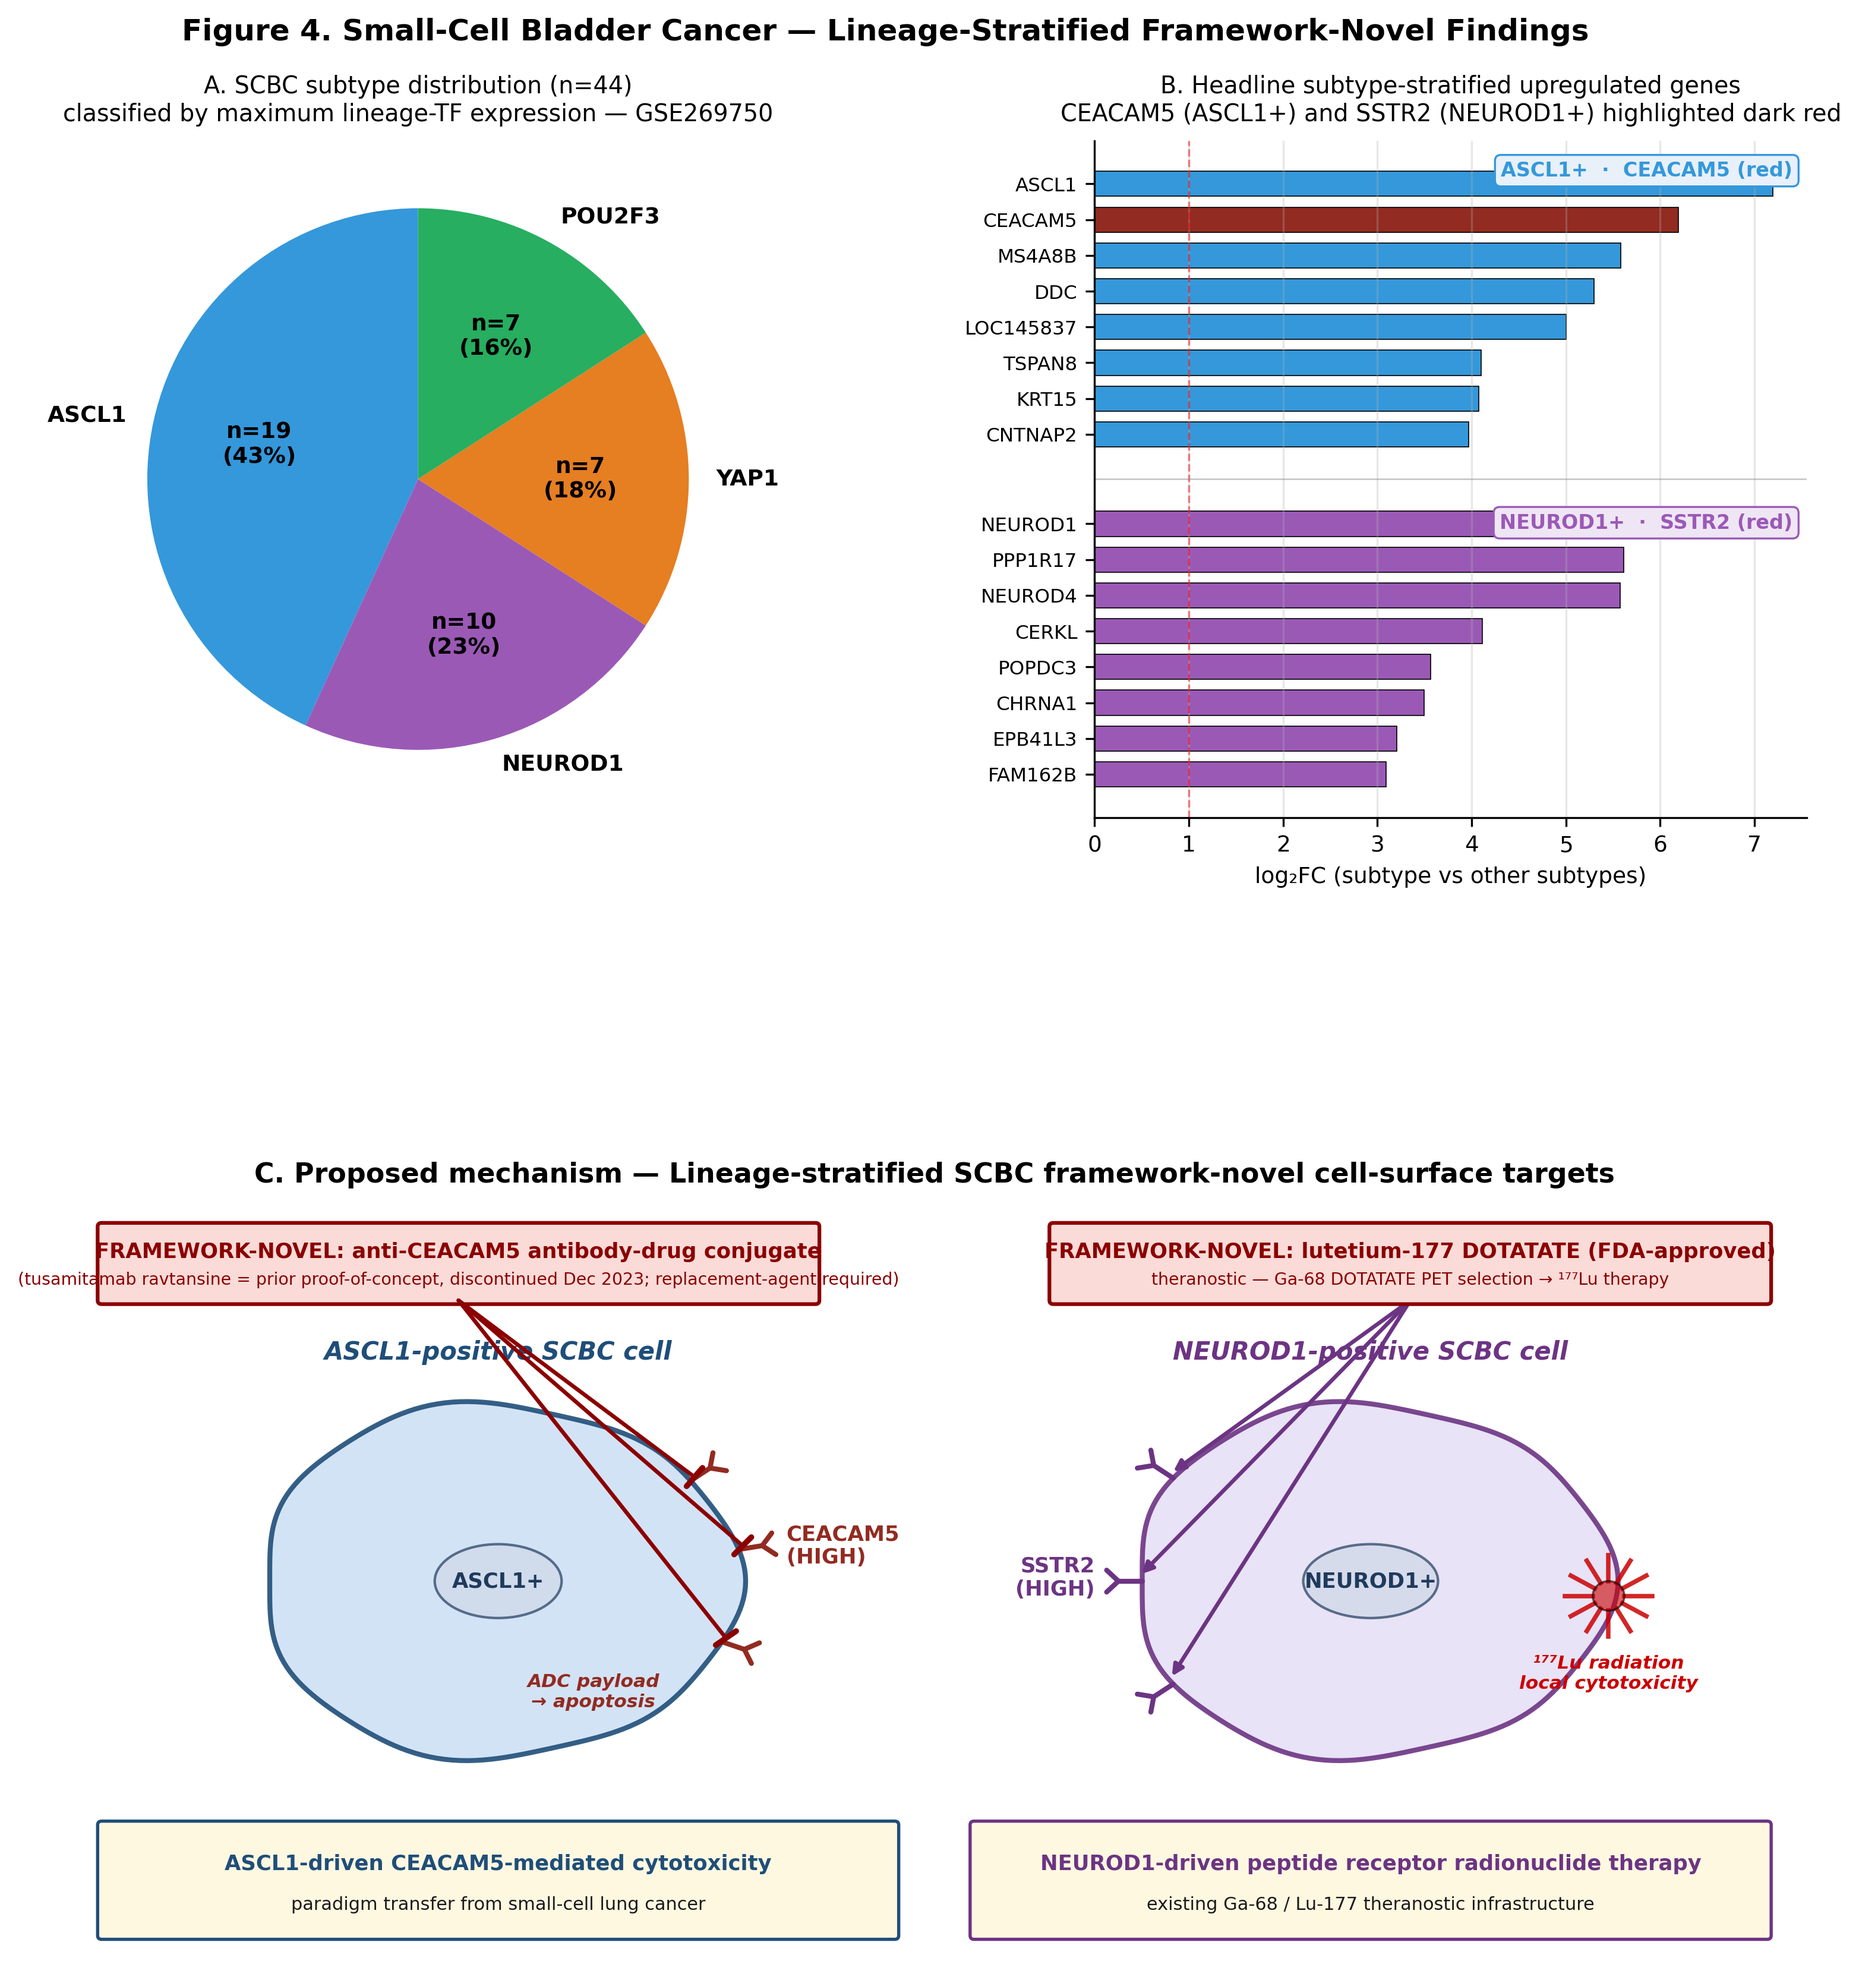
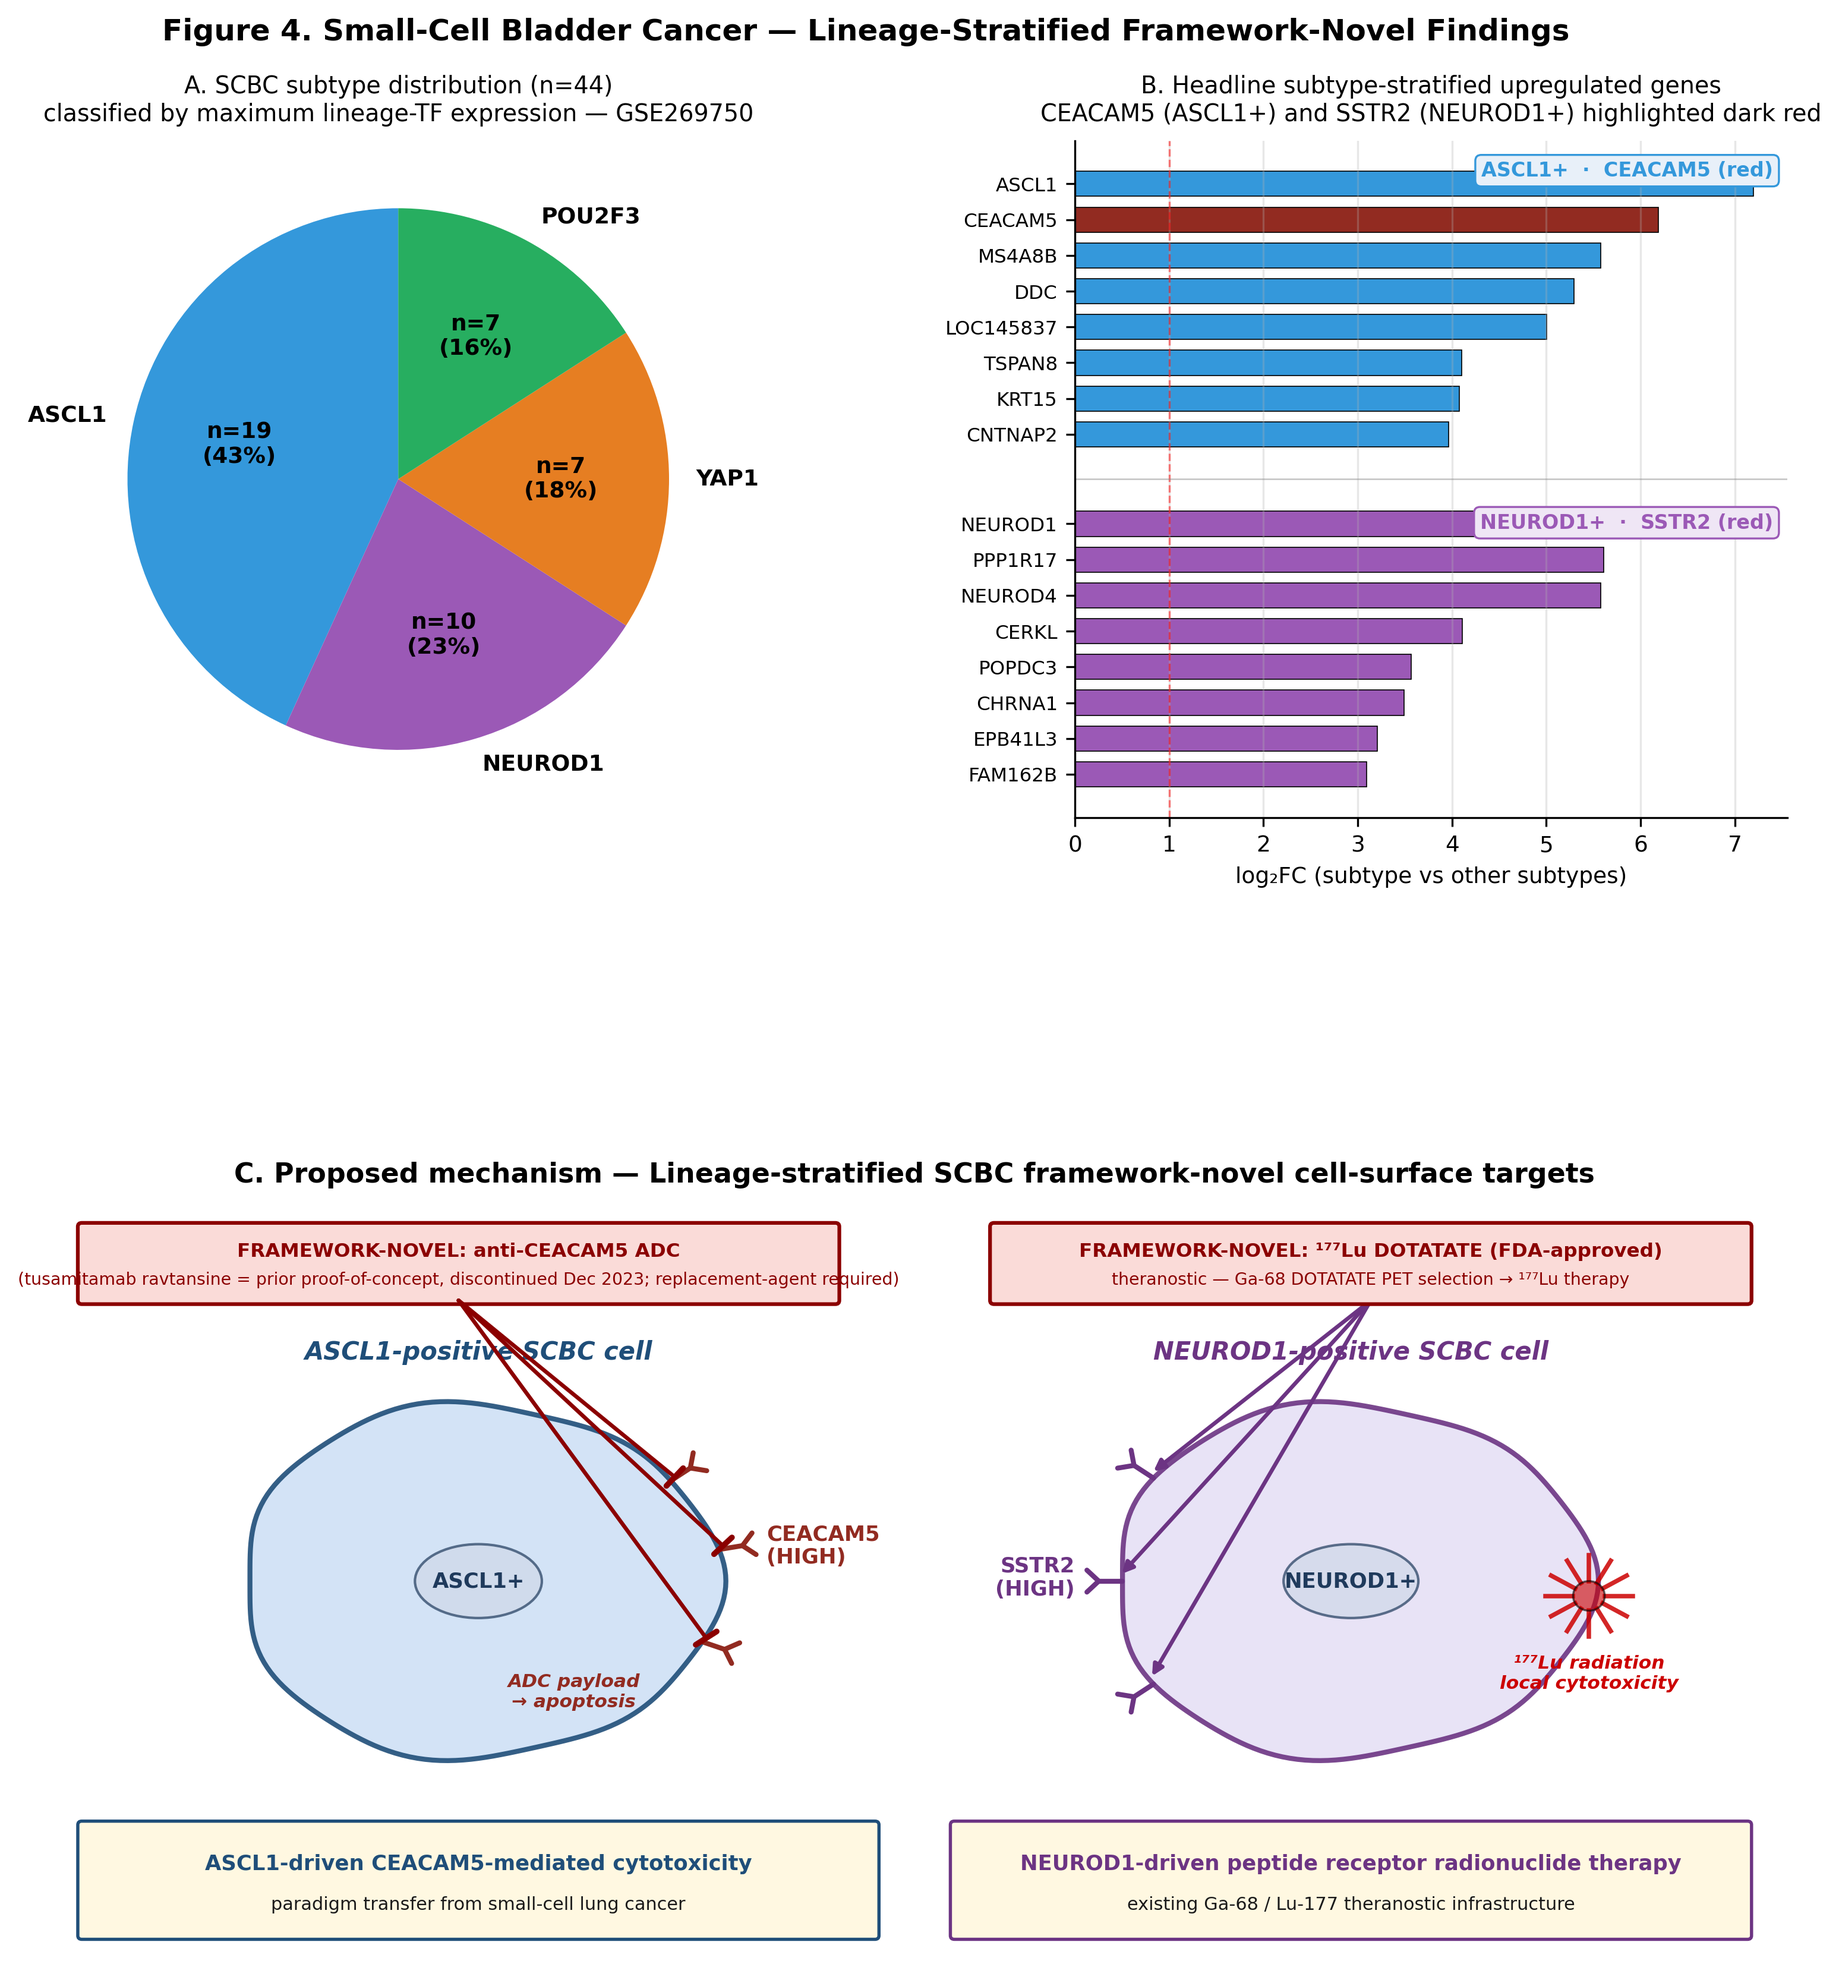
Fig 3 and Fig 4 Panel C: fix drug-box text overflow
Figure 3 Panel C (Sarc-UC schematic):
- All four drug boxes widened and main-label font reduced to 7.8pt so
  'FRAMEWORK-NOVEL' / 'PARTIALLY NOVEL' headers fit inside their boxes
- UHRF1 PROTAC and G6PD inhibitor boxes repositioned to x=16.3 so they
  clear the cell (which extends to x=16) and sit cleanly in the right
  margin
- Arrow endpoints updated to match new box positions

Figure 4 Panel C (SCBC schematic):
- 'FRAMEWORK-NOVEL: anti-CEACAM5 antibody-drug conjugate' shortened to
  'anti-CEACAM5 ADC' (full term is in the caption)
- 'FRAMEWORK-NOVEL: lutetium-177 DOTATATE' shortened to '177Lu DOTATATE'
- Main-label font reduced to 7.8pt; both boxes widened to 9.5 units;
  CEACAM5 and SSTR2 arrow origins updated to new box centers

diff --git a/code/pipeline/12_generate_figures.py b/code/pipeline/12_generate_figures.py
@@ -297,32 +297,35 @@ def schematic_sarcuc(ax):
             color='#c00', style='italic', zorder=7)
 
     # --- Drug boxes around the cell ---
-    # KTX-1001 → NSD2 (top-left)
-    draw_drug_box(ax, 0.5, 8.9, 5.0, 1.0,
+    # KTX-1001 → NSD2 (top-left, above cell)
+    draw_drug_box(ax, 0.3, 8.9, 5.5, 1.0,
                   'FRAMEWORK-NOVEL: NSD2 inhibitor',
-                  'KTX-1001 (Phase I)')
-    # ATR inhibitors (top-right)
-    draw_drug_box(ax, 14.0, 8.9, 7.0, 1.0,
+                  'KTX-1001 (Phase I)',
+                  fontsize_main=7.8)
+    # ATR inhibitors (top-right, above cell)
+    draw_drug_box(ax, 13.5, 8.9, 8.0, 1.0,
                   'FRAMEWORK-NOVEL: ATR inhibitors',
                   'ceralasertib · berzosertib · elimusertib',
-                  fontsize_sub=7.0)
-    # UHRF1 PROTAC (right middle)
-    draw_drug_box(ax, 16.0, 6.2, 5.5, 0.9,
+                  fontsize_main=7.8, fontsize_sub=7.0)
+    # UHRF1 PROTAC (right margin, mid; placed beyond cell x=16)
+    draw_drug_box(ax, 16.3, 6.2, 5.4, 0.9,
                   'PARTIALLY NOVEL: UHRF1 PROTAC',
-                  'UM-002 (preclinical)')
-    # G6PD inhibitor (right bottom)
-    draw_drug_box(ax, 16.5, 2.3, 5.3, 0.9,
+                  'UM-002 (preclinical)',
+                  fontsize_main=7.8)
+    # G6PD inhibitor (right margin, bottom)
+    draw_drug_box(ax, 16.3, 2.3, 5.4, 0.9,
                   'PARTIALLY NOVEL: G6PD inhibitor',
-                  '6-aminonicotinamide')
+                  '6-aminonicotinamide',
+                  fontsize_main=7.8)
 
-    # Inhibition arrows (all routed to land directly on the targets)
+    # Inhibition arrows updated to match new box positions
     draw_inhibition(ax, (3.0, 8.9), (sc_cx - 2.7, sc_cy + 0.85),
                     color='darkred', lw=2.0)
     draw_inhibition(ax, (17.5, 8.9), (sc_cx + 1.8, sc_cy + 0.85),
                     color='darkred', lw=2.0)
-    draw_inhibition(ax, (16.0, 6.65), (sc_cx - 0.05, sc_cy + 0.45),
+    draw_inhibition(ax, (16.3, 6.65), (sc_cx - 0.05, sc_cy + 0.55),
                     color='darkred', lw=2.0)
-    draw_inhibition(ax, (16.5, 2.75), (sc_cx + 4.0, sc_cy - 1.8),
+    draw_inhibition(ax, (16.3, 2.75), (sc_cx + 4.0, sc_cy - 1.8),
                     color='darkred', lw=2.0)
 
     # Negative biomarker box (bottom-left)
@@ -423,26 +426,28 @@ def schematic_scbc(ax):
             ha='right', va='center')
 
     # --- Drug boxes top ---
-    draw_drug_box(ax, 0.5, 9.0, 9.0, 1.0,
-                  'FRAMEWORK-NOVEL: anti-CEACAM5 antibody-drug conjugate',
+    # ADC label shortened ("antibody-drug conjugate" -> "ADC") + smaller font
+    # so the FRAMEWORK-NOVEL header text fits inside the box
+    draw_drug_box(ax, 0.5, 9.0, 9.5, 1.0,
+                  'FRAMEWORK-NOVEL: anti-CEACAM5 ADC',
                   '(tusamitamab ravtansine = prior proof-of-concept, '
                   'discontinued Dec 2023; replacement-agent required)',
-                  fontsize_sub=6.8)
-    draw_drug_box(ax, 12.5, 9.0, 9.0, 1.0,
-                  'FRAMEWORK-NOVEL: lutetium-177 DOTATATE (FDA-approved)',
+                  fontsize_main=7.8, fontsize_sub=6.8)
+    draw_drug_box(ax, 12.0, 9.0, 9.5, 1.0,
+                  'FRAMEWORK-NOVEL: ¹⁷⁷Lu DOTATATE (FDA-approved)',
                   'theranostic — Ga-68 DOTATATE PET selection → ¹⁷⁷Lu therapy',
-                  fontsize_sub=6.8)
+                  fontsize_main=7.8, fontsize_sub=6.8)
 
     # CEACAM5 inhibition arrows: ONE T-bar per receptor, all originating from
     # the drug box. To avoid the "tangle" look, draw them with consistent
     # angles and short, clean shafts.
     for rx_, ry_, _ in ascl_recs:
-        draw_inhibition(ax, (5.0, 9.0), (rx_ + 0.05, ry_ + 0.05),
+        draw_inhibition(ax, (5.25, 9.0), (rx_ + 0.05, ry_ + 0.05),
                         color='darkred', lw=1.6, bar_half=0.16)
     # SSTR2 binding arrows (theranostic): use directed arrows (not T-bars)
     # to indicate binding/delivery, not inhibition
     for rx_, ry_, _ in neur_recs:
-        ax.annotate('', xy=(rx_ - 0.05, ry_ + 0.05), xytext=(17.0, 9.0),
+        ax.annotate('', xy=(rx_ - 0.05, ry_ + 0.05), xytext=(16.75, 9.0),
                     arrowprops=dict(arrowstyle='-|>', lw=1.6,
                                     color='#6c3483'))
 
